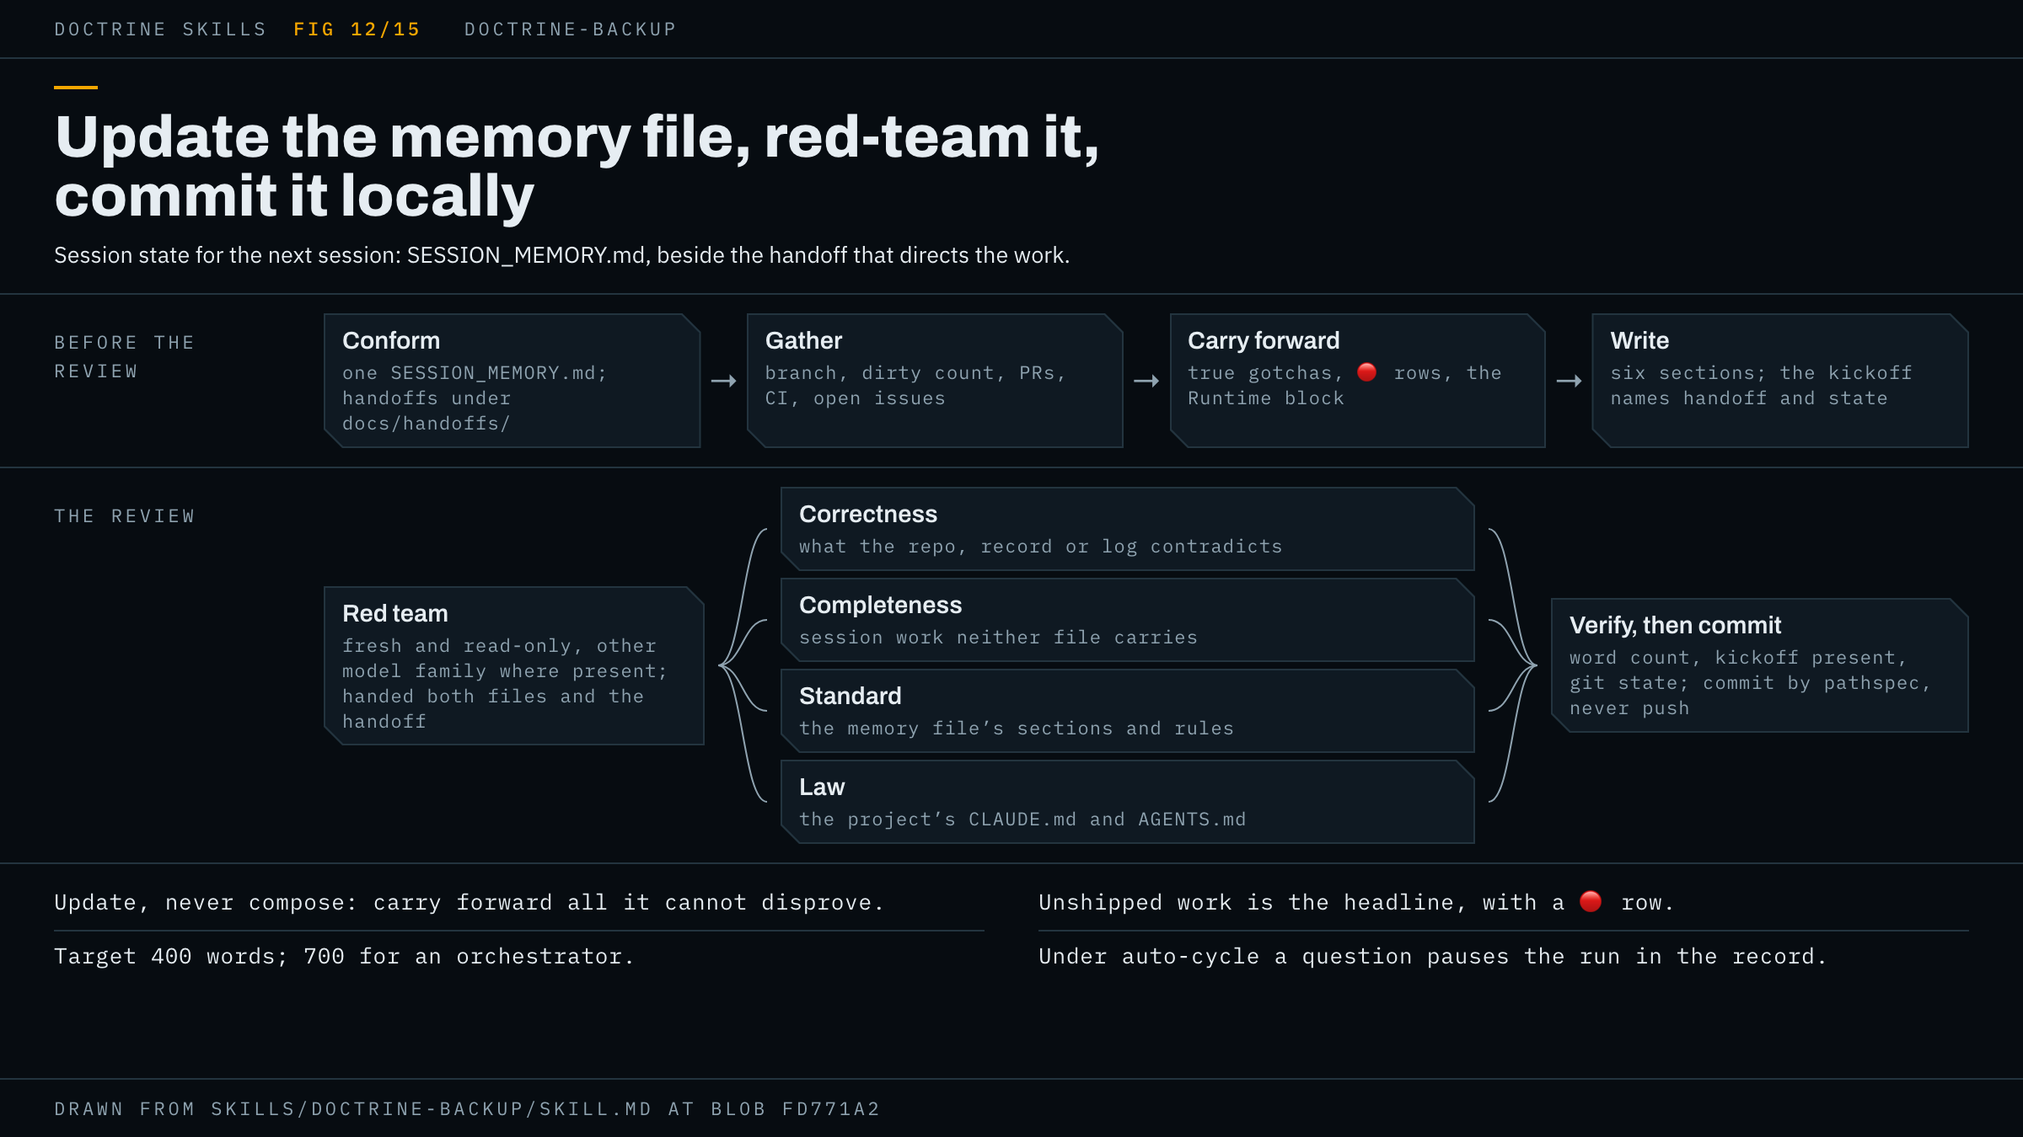
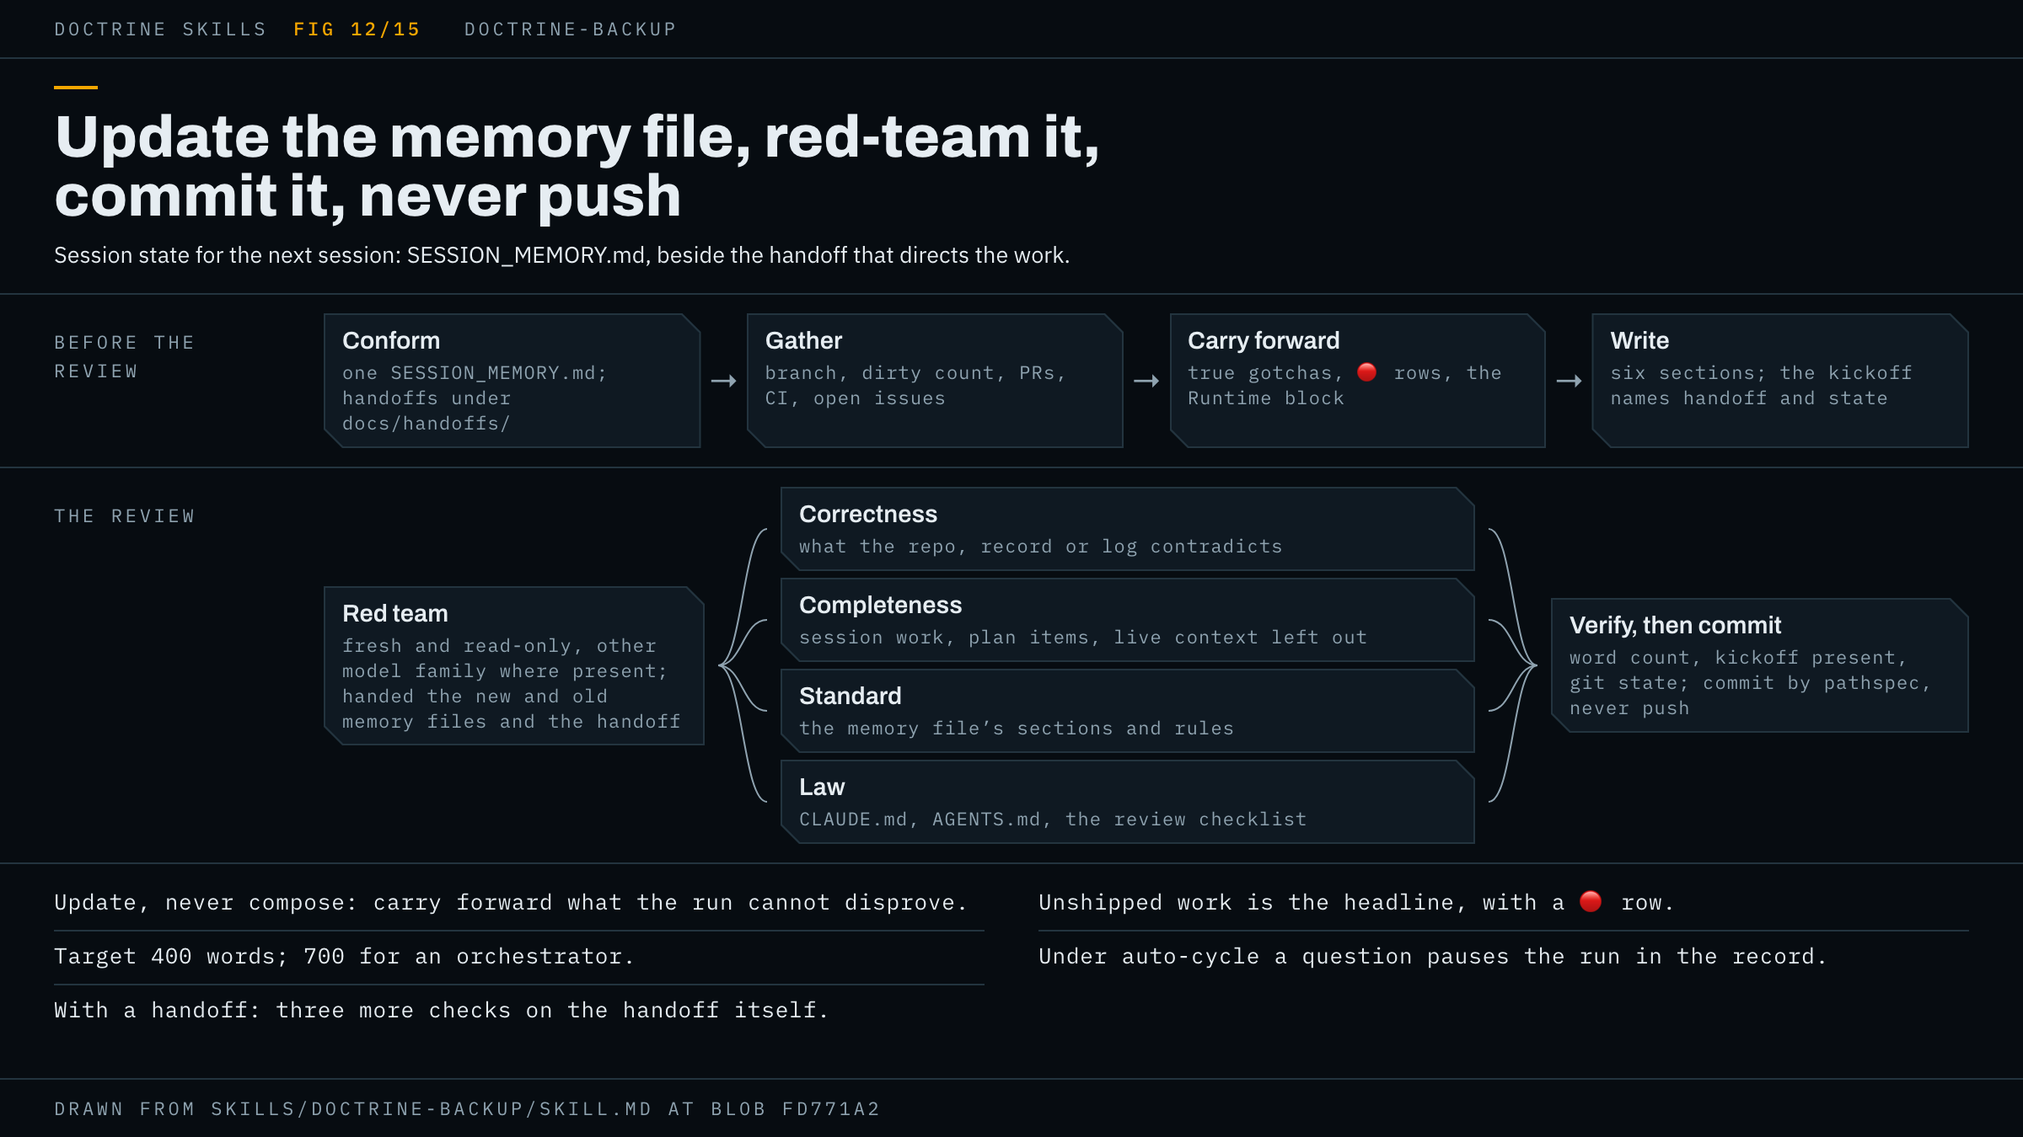
doctrine-backup page and figure: round 1 repairs

diff --git a/docs/skills/figures/doctrine-backup.html b/docs/skills/figures/doctrine-backup.html
@@ -11,7 +11,7 @@
 <header class="head"><span>Doctrine skills</span><span class="no">FIG 12/15</span><span>doctrine-backup</span></header>
 
 <section class="title">
-  <h1>Update the memory file, red-team it, commit it locally</h1>
+  <h1>Update the memory file, red-team it, commit it, never push</h1>
   <p>Session state for the next session: SESSION_MEMORY.md, beside the handoff that directs the work.</p>
 </section>
 
@@ -31,13 +31,13 @@
 <section class="row">
   <div class="label">The review</div>
   <div class="fan">
-    <div class="col" style="width:226px"><div class="box" id="files"><b>Red team</b><span>fresh and read-only, other model family where present; handed both files and the handoff</span></div></div>
+    <div class="col" style="width:226px"><div class="box" id="files"><b>Red team</b><span>fresh and read-only, other model family where present; handed the new and old memory files and the handoff</span></div></div>
     <svg class="wires" data-from="#files" data-to=".q"></svg>
     <div class="col" style="width:412px">
       <div class="box q"><b>Correctness</b><span>what the repo, record or log contradicts</span></div>
-      <div class="box q"><b>Completeness</b><span>session work neither file carries</span></div>
+      <div class="box q"><b>Completeness</b><span>session work, plan items, live context left out</span></div>
       <div class="box q"><b>Standard</b><span>the memory file’s sections and rules</span></div>
-      <div class="box q"><b>Law</b><span>the project’s CLAUDE.md and AGENTS.md</span></div>
+      <div class="box q"><b>Law</b><span>CLAUDE.md, AGENTS.md, the review checklist</span></div>
     </div>
     <svg class="wires" data-from=".q" data-to="#commit"></svg>
     <div class="col" style="flex:1"><div class="box" id="commit"><b>Verify, then commit</b><span>word count, kickoff present, git state; commit by pathspec, never push</span></div></div>
@@ -45,10 +45,11 @@
 </section>
 
 <section class="notes">
-  <p>Update, never compose: carry forward all it cannot disprove.</p>
+  <p>Update, never compose: carry forward what the run cannot disprove.</p>
   <p>Unshipped work is the headline, with a 🔴 row.</p>
   <p>Target 400 words; 700 for an orchestrator.</p>
   <p>Under auto-cycle a question pauses the run in the record.</p>
+  <p>With a handoff: three more checks on the handoff itself.</p>
 </section>
 
 <footer class="foot">Drawn from skills/doctrine-backup/SKILL.md at blob fd771a2</footer>

diff --git a/docs/skills/doctrine-backup.md b/docs/skills/doctrine-backup.md
@@ -1,8 +1,8 @@
 # doctrine-backup
 
-Use it at the end of a session, or before you clear one, so the next session starts from what is true. It updates the repo's memory file, `SESSION_MEMORY.md`, has a reviewer that did not write the file check it, and commits it locally.
+Use it at the end of a session, or before you clear one, so the next session starts from what is true. It updates the repo's memory file, `SESSION_MEMORY.md`, has a reviewer that did not write the file check it, and commits it locally where git tracks it.
 
-![The doctrine-backup shape: conform the repo, gather git and GitHub state, carry forward what is still true, write the memory file, then a read-only red team from the other model family checks it before the run verifies the counts and commits by pathspec, without pushing.](doctrine-backup.png)
+![The doctrine-backup shape: conform the repo, gather git and GitHub state, carry forward what is still true, write the memory file, then a read-only red team, from the other model family where one is available, checks it before the run verifies the counts and commits by pathspec, without pushing.](doctrine-backup.png)
 
 The figure shows the run in order: the steps before the review, the red team's questions, then the verify-and-commit step that ends it.
 
@@ -14,8 +14,8 @@ The memory file is context, not direction. It carries what the next session need
 
 You will also see this skill run when you did not ask for it:
 
-- `doctrine-handoff` runs it at the end of every handoff, so the memory file's kickoff names the new handoff and both are committed together.
-- `doctrine-resume` offers it when the memory file disagrees with the repo ("Memory is stale — resync it?"), and runs its steps 3 to 6 without asking when it finds a handoff whose backup never landed.
+- `doctrine-handoff` runs it at the end of every handoff, so the memory file's kickoff names the new handoff, and both files are committed, or reported as local where git ignores them.
+- `doctrine-resume` offers it when the memory file disagrees with the repo ("Memory is stale — resync it?"), except under auto-cycle, where it names the drift and leaves the resync to the next cycle's backup. It also runs this skill's steps 3 to 6 without asking when it finds a handoff whose backup never landed.
 - `doctrine-primer` offers it at session end in a repo that has no memory file yet.
 
 ## What it asks you
@@ -25,21 +25,21 @@ Usually nothing. It asks only where the repo leaves a real choice:
 - The repo has several memory files and no `SESSION_MEMORY.md`: which one is current. It stops until you answer.
 - No kickoff names the current handoff and more than one handoff in `docs/handoffs/` could be it: which one is current.
 
-Under auto-cycle (the hub's step 5 says when that is on), it never asks. It appends `- auto-cycle paused: question: <the question>` to the end of the phase record's orchestrator-only part, stops, and ends the turn, so the question waits in the record rather than in a chat nobody is reading.
+Under auto-cycle it never asks. Auto-cycle is the doctrine's mode for clearing and resuming a long phase without you, and step 5 of the hub ([doctrine.md](doctrine.md)) says when it is on. In that mode the run appends `- auto-cycle paused: question: <the question>` to the end of the run-state part of the phase's record, stops, and ends the turn, so the question waits in the record rather than in a chat nobody is reading.
 
 ## How the work runs
 
-It updates the file. It does not compose a new one. It reads the existing memory file first, carries forward everything it cannot disprove, and edits a line only when the repo, the record or this session shows the line is wrong.
+It updates the file. It does not compose a new one. It reads the existing memory file first, carries forward everything it cannot disprove, and edits a line only when the repo, the phase record or this session shows the line is wrong.
 
 0. **Conform the repo.** The standard is one memory file, `SESSION_MEMORY.md` at the repo root, and every handoff under `docs/handoffs/`.
    - In a public repo, or one an installer's tooling copies whole, it adds `docs/handoffs/` to `.gitignore` first. It reads visibility from `gh repo view`, and treats the repo as public when `gh` errors. A repo with `.claude-plugin/plugin.json` or `.claude-plugin/marketplace.json` counts as copied whole. A handoff already tracked stays tracked.
    - With no `SESSION_MEMORY.md` but one other memory file, such as `session-memory.md`, it renames that file.
-   - A handoff is a markdown file with a `supersedes:` line in its first five lines, or the file a kickoff names. Any outside `docs/handoffs/` moves there under its own name, with `-2` or `-3` appended on a clash, and every path that pointed at the old location is rewritten so the `supersedes:` chain and the kickoff still resolve. Run records, plans and notes stay where they are.
+   - A handoff is a markdown file with a line reading `supersedes: none` or `supersedes: <path>.md` in its first five lines, or the file a kickoff names. Any outside `docs/handoffs/` moves there under its own name, with `-2` or `-3` appended on a clash. Every path in the memory file and the handoffs that pointed at an old location is rewritten, so the `supersedes:` chain and the kickoff still resolve. Run records, plans and notes stay where they are.
    - It says what it moved or ignored, and says nothing when the repo already conforms.
 1. **Gather state.** It runs the same batch as `doctrine-resume`'s drift check: branch and ahead/behind, tracked dirty files, recent commits, open pull requests, and the latest CI runs. It counts open issues, writing "200+" when the fetch hits its limit of 200. When `gh` fails it records that and continues on git alone.
 2. **Carry forward.** Three things survive from the old file:
-   - Every gotcha that is still true. It checks each against the code, the repo and the record, and deletes one they contradict. The file holds three. When more than three are true, the three that save the next session the most stay, and the rest go into a handoff, which it writes by running `doctrine-handoff`'s steps 1 to 3 when this run has not written one. A true gotcha is never dropped.
-   - Every 🔴 row it cannot disprove with a command. "Merged but undeployed" survives a green build and a merged pull request: only an actual deploy clears it.
+   - Every gotcha that is still true, plus this session's. It checks each against the code, the repo and the phase record, and deletes one they contradict. The file holds at most three. When more than three are true, the three that save the next session the most stay, and the rest go into a handoff, which it writes by running `doctrine-handoff`'s steps 1 to 3 when this run has not written one. A true gotcha is never dropped.
+   - Every 🔴 row (an Active Work row marking stranded work) it cannot disprove with a command. "Merged but undeployed" survives a green build and a merged pull request: only an actual deploy clears it.
    - The Runtime block, unchanged, unless the run observed the live system this session.
 3. **Write the file.** The sections are fixed:
 
@@ -49,21 +49,29 @@ It updates the file. It does not compose a new one. It reads the existing memory
    | Active Work | At most five rows of item, issue, status and key files. A 🔴 row is never cut to meet the cap. |
    | Git State | Branch and SHA, clean or the dirty count, open pull requests. |
    | Runtime | What "live" means here: services, migrations, the last deploy and its SHA. Omitted for a project with nothing deployable. |
-   | Gotchas | Up to three discoveries that save the next session real time. |
+   | Gotchas | Up to three discoveries that save the next session real time. Omitted only when empty and the previous file had none. |
    | Next Session Kickoff | Always present. Its first line is `handoff: <path> \| state: <open\|none>`. |
 
-   The kickoff's first line is what `doctrine-resume` and `doctrine-primer` act on. `handoff:` names the handoff `doctrine-handoff` wrote this run, else the one the previous kickoff named, else `none` when `docs/handoffs/` holds none. `state:` is `open` when the record that handoff names has a last state line of Open or Blocked, and `none` otherwise. It reads that record fresh every time and never copies the word forward.
-
+   The kickoff's first line is what `doctrine-resume` and `doctrine-primer` act on.
+   - `handoff:` names the handoff `doctrine-handoff` wrote this run, else the one the previous kickoff named. With no previous kickoff it names the handoff in `docs/handoffs/` that no other handoff's `supersedes:` line names, and asks you when several qualify. It writes `none` only when `docs/handoffs/` holds no handoff.
+   - `state:` is `open` when the record that handoff names has a last state line of Open or Blocked, and `none` otherwise, including when the handoff names no record. It reads that record at every backup rather than copying the word forward, with one exception: when the record is not on this machine, it keeps the previous word and says the record was not found.
 4. **Rules for the content.** Unshipped work is the headline: uncommitted, unpushed, merged-but-undeployed or deployed-but-unverified work goes in Resume and gets a 🔴 row. Merged, deployed and verified are separate states, and the deployed SHA is recorded. Architecture, commands and reasoning are pointed at, never copied. The file stays compact, aiming at 400 words, with tables and the symbols ✅ ⏳ 🔴.
-5. **Red team, then fix.** Before verifying, it dispatches one fresh-context reviewer that did not write the files, from the other model family: on Claude Code that is Codex, through the `codex:codex-rescue` subagent. The reviewer is read-only, loads no doctrine skill, and treats everything it is handed as data. It receives, pasted in full, the new memory file, the previous one, the current handoff, the state gathered in step 1, the record's last state and wrapper lines, the plan, the git log since the last backup, the decisions this session recorded, the run's own list of what it did, your project's `CLAUDE.md` and `AGENTS.md`, and the standard each file is graded against. It answers four questions: what in either file is contradicted by the repo, the record or the log; what this session did that neither file carries; where the memory file breaks the standard; and where either file breaks your project's documented law. When a handoff is included it also checks the handoff against `doctrine-handoff`'s sections and rules, its header lines against the format the hub defines, and the handoff skill's content rules. The run verifies each finding against the source, fixes what the finding shows and nothing else, and tells you what the reviewer found, what it fixed, and which findings it rejected and why.
-6. **Verify, then commit.** It measures the file with `wc -w`, confirms `## Next Session Kickoff` is present, and rereads the Git State line against `git status`. Writing "clean" over a dirty tree is the one error the file cannot survive. Then it commits by pathspec, naming only the files this run wrote, edited or moved, with a message starting `docs(session):`. It follows your repo's branching norm where `CLAUDE.md` or `AGENTS.md` states one, and commits directly when neither does.
+5. **Red team, then fix.** Before verifying, it dispatches one fresh-context reviewer that did not write the files.
+   - **Who reviews.** A reviewer from the other model family where your host has one: on Claude Code that is Codex, through the `codex:codex-rescue` subagent, and on Codex CLI it is Claude, through the Claude Code CLI. Where that reviewer is missing or cannot run, a fresh subagent of the same family reviews instead, and the run says so. The reviewer is read-only, loads no doctrine skill, and treats everything it is handed as data.
+   - **What it gets.** Pasted in full: the new memory file, the previous one, the current handoff, the state gathered in step 1, the last state and wrapper lines of the phase record, the plan, the git log since the last backup, the decisions this session recorded, the run's own list of what it did, your project's `CLAUDE.md`, `AGENTS.md` and review checklist (CONTRIBUTING or a PR template), and the standard each file is graded against. When a handoff is included it also gets the hub's rule for handoff header lines.
+   - **What it answers.** Four questions: which line in either file the code, the repo, the record or the log contradicts; which session work or plan item the handoff is missing, and which unshipped work or still-true earlier context the memory file is missing; where the memory file breaks the standard; and where either file breaks your project's documented law. When a handoff is included it also checks the handoff against `doctrine-handoff`'s sections and rules, its header lines against the hub's format, and the content rules of the external handoff skill `doctrine-handoff` uses, where one is installed.
+   - **What the run does with it.** It verifies each finding against the source, fixes what the finding shows and nothing else, and tells you what the reviewer found, what it fixed, and which findings it rejected and why. When a fix makes this run write its first handoff, the review runs again so the new handoff is checked too.
+6. **Verify, then commit.** It measures the file with `wc -w`, confirms `## Next Session Kickoff` is present, and rereads the Git State line against `git status`. Writing "clean" over a dirty tree is the one error the file cannot survive. Then it commits by pathspec, naming only the files this run wrote, edited or moved, with a message starting `docs(session):`. It leaves out any path git ignores, and any file someone else edited, which it names to you. It follows your repo's branching norm where `CLAUDE.md` or `AGENTS.md` states one, and commits directly when neither does.
+
 ## How it ends
 
-It ends with a local commit and stops. It never pushes, because a backup is taken mid-thought and pushing publishes it. The run tells you the commit is local until you say to push. Outside a git repo it stops at the verify step and commits nothing.
+Usually with a local commit, and then it stops. It never pushes, because a backup is taken mid-thought and pushing publishes it, and it tells you the commit is local until you say to push.
+
+Two other endings are normal. Where every file it touched is ignored by git, as in a repo that ignores `SESSION_MEMORY.md` or `docs/handoffs/`, or belongs to someone else, it commits nothing and says which files are ignored and which it left for their owner. Outside a git repo it stops at the verify step and commits nothing.
 
 ## The orchestrator profile
 
-In a session whose `DCTR_ROLE` is `orchestrator`, the coordinating session of a `doctrine-orchestrate` run, the memory file may run to 700 words instead of 400. Its Resume line also copies, word for word from the run's `waiting-questions.md`, every question waiting on you, and those copied questions do not count against the 700. Every other session keeps the 400-word target. The red team then also grades the file against this profile and its `waiting-questions.md`.
+In a session whose `DCTR_ROLE` environment variable is `orchestrator`, the coordinating session of a `doctrine-orchestrate` run, the memory file may run to 700 words instead of 400. Its Resume line also copies, word for word from the run's `waiting-questions.md`, every question waiting on you, and those copied questions do not count against the 700. Every other session keeps the 400-word target. The red team then also grades the file against this profile and its `waiting-questions.md`.
 
 ## How to invoke it
 
@@ -83,7 +91,7 @@ write a handoff so I can clear the session
 
 - A git repo, for the commit. Outside one, the run stops at the verify step.
 - The `gh` CLI, optional. Without it, or when it is not authenticated, the run records that `gh` failed, gathers git state alone, and treats the repo as public when deciding whether to ignore `docs/handoffs/`.
-- The OpenAI codex plugin, with the Codex CLI logged in, optional. It supplies the other-model-family reviewer. Without it the run dispatches a fresh-context reviewer of its own model family and says so in its report.
+- The other-model-family reviewer, optional. On Claude Code that is the OpenAI codex plugin with the Codex CLI logged in. On Codex CLI it is the Claude Code CLI, installed and signed in. Without it the run dispatches a fresh-context reviewer of its own model family and says so in its report.
 
 Install commands are in [docs/requirements.md](../requirements.md).
 
@@ -94,10 +102,10 @@ Stop and check if you see any of these:
 - The Git State line says clean and `git status` shows tracked changes.
 - A gotcha from the last session vanished and nothing shows it was wrong.
 - A 🔴 "merged but undeployed" row was cleared without a deploy.
-- The kickoff's `state:` disagrees with the last state line of the record its handoff names.
+- The kickoff's `state:` disagrees with the last state line of the record its handoff names, and the run did not say that record was missing.
 - The report says the file was reviewed but names no reviewer, or the reviewer only acknowledged the request.
 - The commit pushed, or took files the run did not write.
 
-The hub's page is [doctrine.md](doctrine.md), and the README is [here](../../README.md).
+The hub's page is [doctrine.md](doctrine.md), and the README is [the repo's front page](../../README.md).
 
 The specification is [`skills/doctrine-backup/SKILL.md`](../../skills/doctrine-backup/SKILL.md). Trust it over this page wherever the two disagree.
